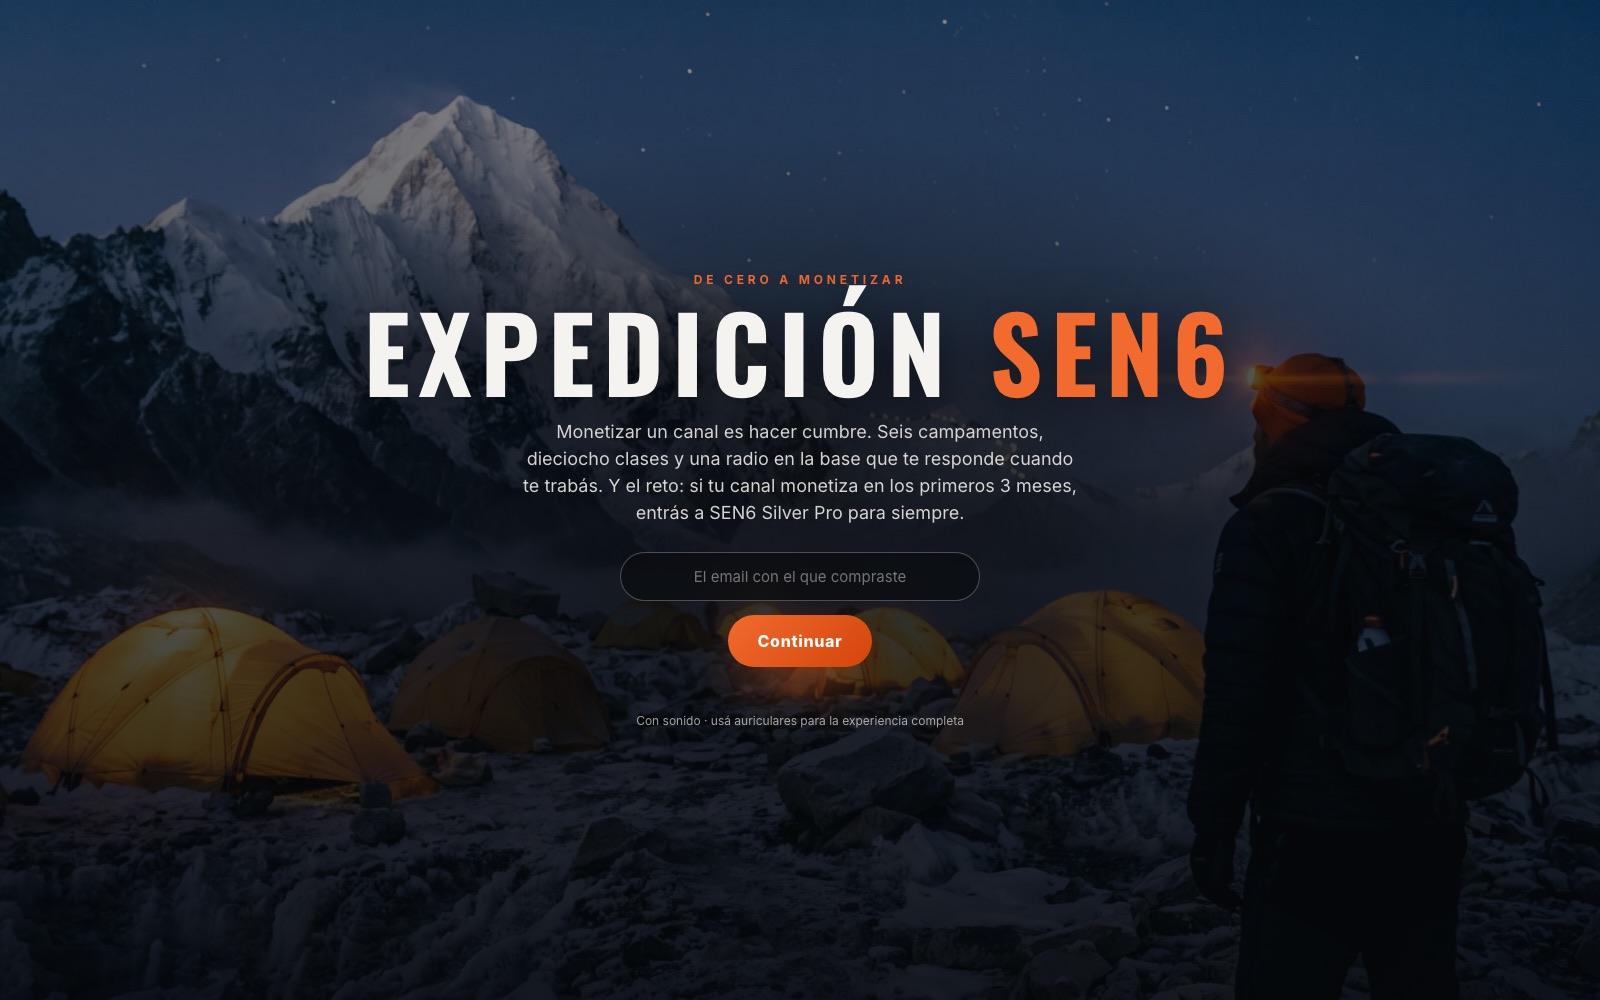
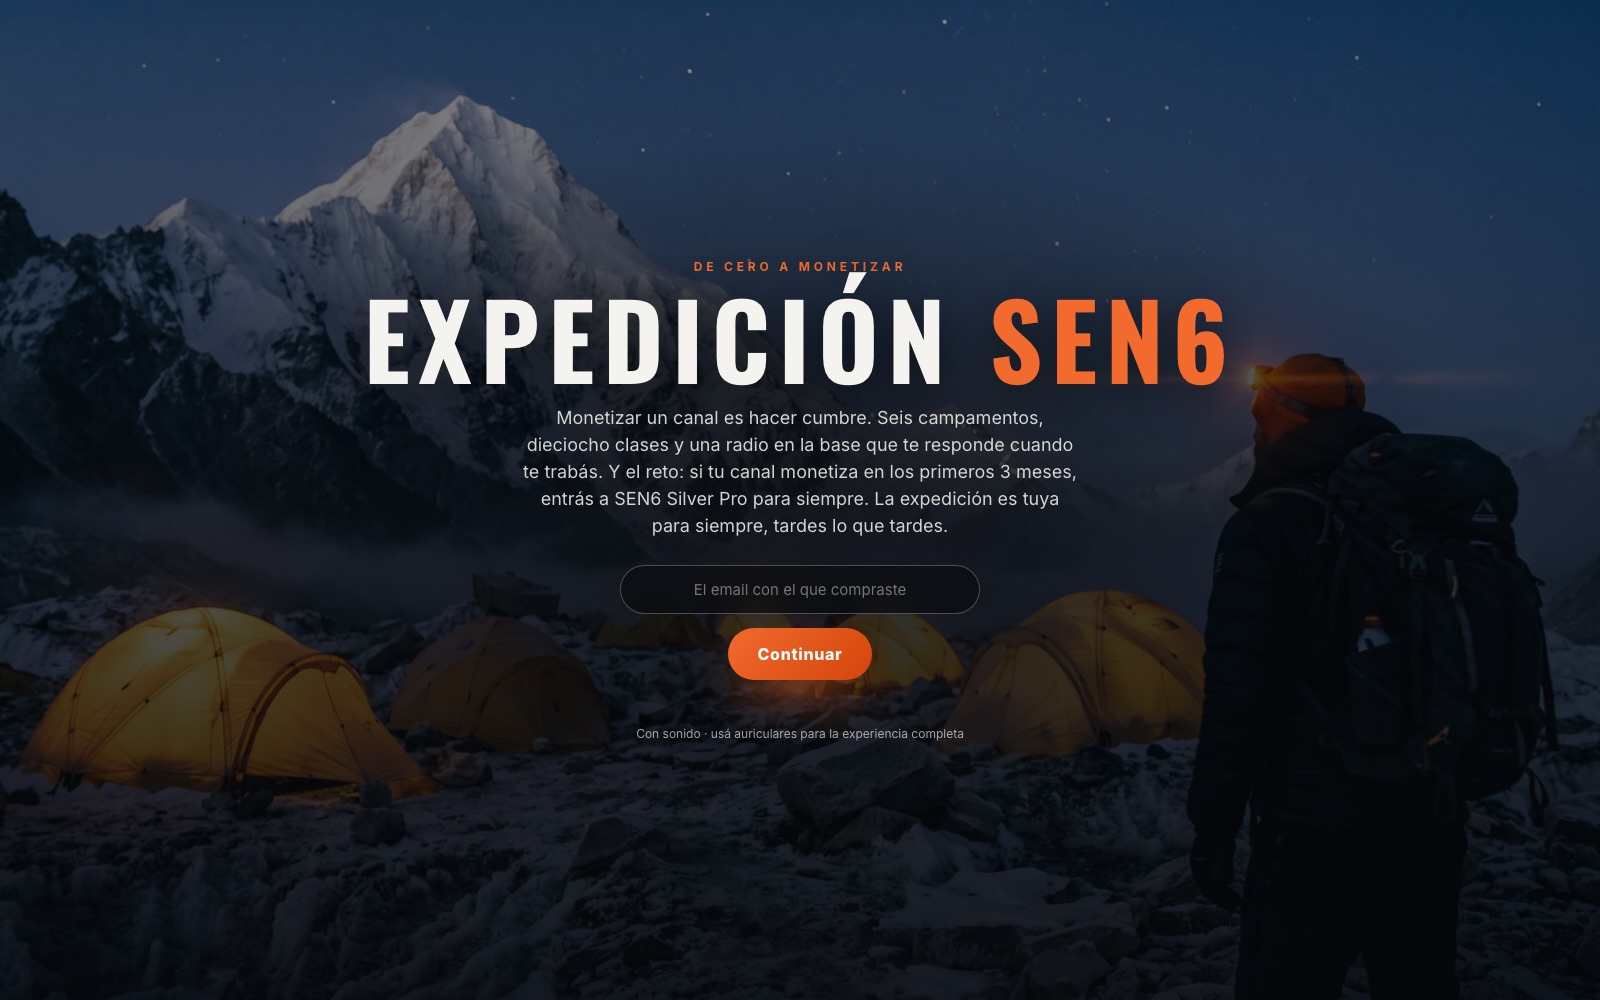
Expedición SEN6: aclarar que los 3 meses son solo para el premio; la expedición sigue para siempre

Changed region(s): [[0.2188, 0.248, 0.7812, 0.682], [0.4062, 0.713, 0.5938, 0.744]]

diff --git a/expedicion/entrar/index.html b/expedicion/entrar/index.html
@@ -268,7 +268,7 @@ button{font:inherit;color:inherit}
   <div class="marca">Expedición <em>SEN6</em><small>De cero a monetizar, campamento por campamento</small></div>
   <div class="chips">
     <div class="chip" id="chipExp" title="Regla del 6M: el año tiene 6 expediciones de 2 meses. Si esta no hace cumbre, volvés al campamento base con lo aprendido.">Expedición <b>1</b> de 6</div>
-    <button class="chip extra chip-reto" id="chipReto" type="button" hidden title="El reto: monetizá en 3 meses y ganás Silver Pro para siempre"></button>
+    <button class="chip extra chip-reto" id="chipReto" type="button" hidden title="El reto: monetizá en 3 meses y ganás Silver Pro para siempre. Si tardás más, tu expedición sigue igual."></button>
     <div class="chip extra" id="chipProgreso"></div>
     <button class="chip sonido" id="sonido" type="button" aria-pressed="true"></button>
     <button class="chip ayuda" id="ayuda" type="button" aria-label="Ver el recorrido guiado" title="Ver el recorrido guiado">?</button>
@@ -289,7 +289,7 @@ button{font:inherit;color:inherit}
   <div>
     <div class="kick">De cero a monetizar</div>
     <h1>Expedición <em>SEN6</em></h1>
-    <p>Monetizar un canal es hacer cumbre. Seis campamentos, dieciocho clases y una radio en la base que te responde cuando te trabás. Y el reto: si tu canal monetiza en los primeros 3 meses, entrás a SEN6 Silver Pro para siempre.</p>
+    <p>Monetizar un canal es hacer cumbre. Seis campamentos, dieciocho clases y una radio en la base que te responde cuando te trabás. Y el reto: si tu canal monetiza en los primeros 3 meses, entrás a SEN6 Silver Pro para siempre. La expedición es tuya para siempre, tardes lo que tardes.</p>
     <form id="acceso" novalidate>
       <input id="accEmail" type="email" placeholder="El email con el que compraste" autocomplete="username" aria-label="Tu email de compra">
       <div class="acc-paso" id="accPaso" hidden></div>
@@ -739,8 +739,8 @@ function diasReto(){ if (!FICHA.retoHasta) return null; return Math.ceil((Date.p
 function textoReto(){
   var d = diasReto();
   if (d === null) return 'El reto: si tu canal monetiza en los primeros 3 meses, entrás a SEN6 Silver Pro para siempre (valor US$500).';
-  return d > 0 ? 'El reto: te quedan <b>' + d + (d === 1 ? ' día' : ' días') + '</b> para monetizar y ganar SEN6 Silver Pro para siempre (valor US$500).'
-               : 'El plazo del reto (3 meses) ya pasó, pero la cumbre sigue esperándote.';
+  return d > 0 ? 'El reto: te quedan <b>' + d + (d === 1 ? ' día' : ' días') + '</b> para monetizar y ganar SEN6 Silver Pro para siempre (valor US$500). Si tardás más, no pasa nada: tu expedición sigue, solo cambia el premio.'
+               : 'El plazo del reto (3 meses) ya pasó, pero tu expedición sigue igual: es tuya para siempre. Seguí subiendo a tu ritmo y hacé cumbre cuando tu canal monetice.';
 }
 function textoCumbre(ec){
   return ec === 'revision' ? '<b>En revisión.</b> Revisamos tu canal con NexLev cada hora. Cuando esté aprobado, la cumbre se abre sola la próxima vez que entres.'
@@ -856,7 +856,7 @@ var TOURS = {
     { el:'#radio', tit:'Radio de la base', txt:'Si te trabás, prendé la radio y escribí tu duda. Te responde con lo que ya contestaron Max y Lau a cientos de alumnos.' },
     { el:'#guia', tit:'Las luces doradas', txt:'Son los alumnos de la comunidad de Skool: suben con guía, vivos todos los meses y la comunidad. Si querés acompañamiento, desde acá te sumás.' },
     { el:'#sonido', tit:'Sonido', txt:'La expedición tiene música, ambiente y narración. Si estás en un lugar sin auriculares, la apagás acá.' },
-    { el:'#ayuda', tit:'Listo, a subir', txt:'Acordate del reto: si tu canal monetiza en los primeros 3 meses, entrás a SEN6 Silver Pro para siempre. Si querés ver este recorrido de nuevo, tocá este botón. Ahora entrá a tu primer campamento.' }
+    { el:'#ayuda', tit:'Listo, a subir', txt:'Acordate del reto: si tu canal monetiza en los primeros 3 meses, entrás a SEN6 Silver Pro para siempre. Si tardás más, la expedición sigue igual: es tuya. Si querés ver este recorrido de nuevo, tocá este botón. Ahora entrá a tu primer campamento.' }
   ],
   campamento: [
     { el:'#lecs', tit:'Las clases del campamento', txt:'Miralas en orden. Cada una dura pocos minutos y va directo a lo que tenés que hacer.' },

diff --git a/expedicion/index.html b/expedicion/index.html
@@ -398,13 +398,14 @@ footer a{margin:0 10px;color:var(--dim)}
       <div class="eb rv">El reto · 3 meses</div>
       <h2 class="rv d1" style="margin-top:14px">Monetizá en 3 meses.<br><em>Ganate Silver Pro para siempre.</em></h2>
       <p class="lead rv d2" style="margin-top:18px">La Expedición es un reto. Tenés 3 meses desde que entrás: si en ese plazo hacés cumbre, con tu canal monetizado de verdad, entrás por invitación a SEN6 Silver Pro en Skool. De por vida.</p>
+      <p class="rv d2" style="margin:14px 0 0;font-size:15.5px;color:var(--cream);border-left:3px solid var(--oro);padding:4px 0 4px 14px"><b style="color:#FFE3A6">Los 3 meses son solo para el premio.</b> La expedición y la app son tuyas para siempre: si tardás más, seguís subiendo a tu ritmo y podés hacer cumbre igual.</p>
       <div class="pasos">
         <div class="paso rv"><div><b>Registrás tu canal</b><span>Cuando lo abrís, en el Campo 2, queda guardado como el canal de tu expedición.</span></div></div>
         <div class="paso rv d1"><div><b>Lo llevás a monetizar en 3 meses</b><span>Campamento por campamento, con las 18 clases y la radio de la base. En la app ves cuántos días te quedan.</span></div></div>
         <div class="paso rv d2"><div><b>Lo verificamos con NexLev y te invitamos</b><span>Si es el mismo canal y está monetizado dentro del plazo, hiciste cumbre: entrás a Silver Pro para siempre.</span></div></div>
       </div>
     </div>
-    <div class="premio rv d1"><div><div class="k">El premio</div><b>US$500</b><span>Silver Pro</span><small>para siempre · si monetizás en 3 meses</small></div></div>
+    <div class="premio rv d1"><div><div class="k">El premio</div><b>US$500</b><span>Silver Pro</span><small>si monetizás en 3 meses<br>tu expedición sigue igual</small></div></div>
   </div>
 </section>
 
@@ -460,6 +461,7 @@ footer a{margin:0 10px;color:var(--dim)}
     <div class="faq" style="margin-top:44px">
       <details class="rv"><summary>¿Es para siempre de verdad?</summary><p>Sí. Pagás US$27 una sola vez, sin mensualidad, y la expedición queda tuya.</p></details>
       <details class="rv"><summary>¿Cómo funciona el reto?</summary><p>Tenés 3 meses desde que entrás. Registrás tu canal cuando lo abrís (Campo 2) y, cuando monetiza, mandás el link desde la cumbre. Lo revisamos con NexLev: si es el mismo canal, está monetizado y lo pediste dentro de los 3 meses, te invitamos a SEN6 Silver Pro en Skool, para siempre. Después del plazo podés hacer cumbre igual, pero sin el premio.</p></details>
+      <details class="rv"><summary>¿Qué pasa si tardo más de 3 meses?</summary><p>Nada se corta. La expedición, las clases, los PDF y la radio son tuyos para siempre: seguís subiendo a tu ritmo y, cuando tu canal monetice, hacés cumbre igual. Los 3 meses son solo el plazo para ganar el premio de Silver Pro.</p></details>
       <details class="rv"><summary>¿Cómo entro después de pagar?</summary><p>Apenas pagás te lleva directo a la expedición. Entrás con el mismo email del pago y creás tu contraseña. También te llega un mail con el acceso.</p></details>
     </div>
   </div>
